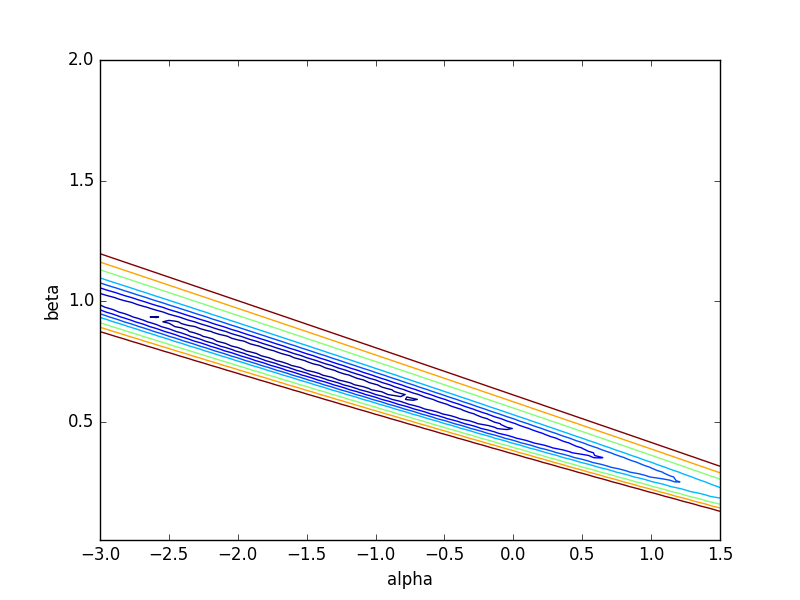
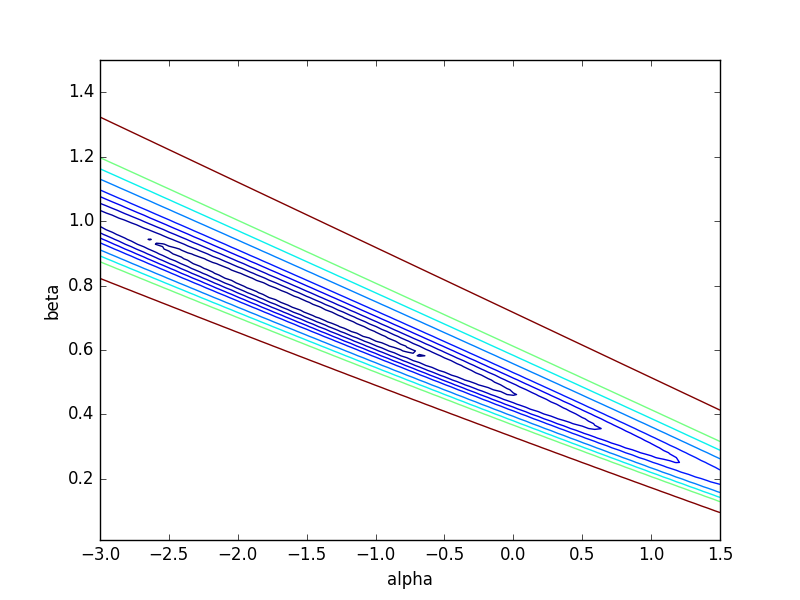
now with multiple dwarfs

diff --git a/GCE_log_parab_tests.py b/GCE_log_parab_tests.py
@@ -35,9 +35,10 @@ k = raw[trunc:dataset,5]
 background = raw[trunc:dataset,7]
 exposure = raw[trunc:dataset,6]
 
+#Eb = np.logspace(-1,0.5,40)
 Eb = np.array([0.2])
 alpha = np.linspace(-3,1.5,100)
-beta = np.linspace(0.01,1.5,100)
+beta = np.linspace(0.01,2,100)
 N0_GCE = 3.*np.logspace(-8,-5,100)
 
 binned_spectra = GCE_calcs.calculations.get_spec_log_parab(N0_GCE,alpha,beta,Eb,emax_GCE,emin_GCE)
@@ -110,28 +111,135 @@ plt.xlabel('Energy [GeV]')
 plt.ylabel('Number Flux [cm^-2 sec^-1]')
 plt.legend(loc='best')
 plt.xscale('log')
+#plt.yscale('log')
 plt.savefig('residual_test.png')
 plt.clf()
 
 
+#########################
+### plotting slices of the 4-d log-like
+#########################
+
+
+levels = [0,1,3,6,10,15,25,36,49]
+plt.contour(alpha,beta,-log_like_GCE_4d[max_index[0],:,:,max_index[3]].T  + log_like_GCE_4d.max(),levels)
+plt.xlabel('alpha')
+plt.ylabel('beta')
+plt.savefig('alpha_beta_slice.png')
+plt.clf()
+
+max_index_alpha_beta = np.unravel_index(log_like_GCE_4d[max_index[0],:,:,max_index[3]].argmax(),log_like_GCE_4d[max_index[0],:,:,max_index[3]].shape)
+
+#print 'the index of the max prob in the alpha_beta slice is ' + str(max_index_alpha_beta)
+
+
+
+#plt.contour(alpha,Eb, -log_like_GCE_4d[max_index[0],:,max_index[2],:].T + log_like_GCE_4d.max(),levels)
+#plt.xlabel('alpha')
+#plt.ylabel('Eb')
+#plt.yscale('log')
+#plt.savefig('alpha_Eb_slice.png')
+#plt.clf()
+
+#max_index_alpha_Eb = np.unravel_index(log_like_GCE_4d[max_index[0],:,max_index[2],:].argmax(),log_like_GCE_4d[max_index[0],:,max_index[2],:].shape)
+
+#print 'the index of the max prob in the alpha_Eb slice is ' + str(max_index_alpha_Eb)
+
+
+
+
+plt.contour(N0_GCE,alpha, -log_like_GCE_4d[:,:,max_index[2],max_index[3]].T + log_like_GCE_4d.max(),levels)
+plt.xlabel('N0')
+plt.xscale('log')
+plt.ylabel('alpha')
+plt.savefig('N0_alpha_slice.png')
+plt.clf()
+
+max_index_N0_alpha = np.unravel_index(log_like_GCE_4d[:,:,max_index[2],max_index[3]].argmax(),log_like_GCE_4d[:,:,max_index[2],max_index[3]].shape)
+
+#print 'the index of the max prob in the N0_alpha slice is ' + str(max_index_N0_alpha)
+
+
+plt.contour(N0_GCE,beta, -log_like_GCE_4d[:,max_index[1],:,max_index[3]].T + log_like_GCE_4d.max(),levels)
+plt.xlabel('N0')
+plt.xscale('log')
+plt.ylabel('beta')
+plt.savefig('N0_beta_slice.png')
+plt.clf()
+
+max_index_N0_beta = np.unravel_index(log_like_GCE_4d[:,max_index[1],:,max_index[3]].argmax(),log_like_GCE_4d[:,max_index[1],:,max_index[3]].shape)
+
+#print 'the index of the max prob in the N0_beta slice is ' + str(max_index_N0_beta)
+
+
+#plt.contour(N0_GCE,Eb, -log_like_GCE_4d[:,max_index[1],max_index[2],:].T + log_like_GCE_4d.max(),levels)
+#plt.xlabel('N0')
+#plt.xscale('log')
+#plt.ylabel('Eb')
+#plt.yscale('log')
+#plt.savefig('N0_Eb_slice.png')
+#plt.clf()
+
+#max_index_N0_Eb = np.unravel_index(log_like_GCE_4d[:,max_index[1],max_index[2],:].argmax(),log_like_GCE_4d[:,max_index[1],max_index[2],:].shape)
+
+#print 'the index of the max prob in the N0_Eb slice is ' + str(max_index_N0_Eb)
+
+
+#plt.contour(beta,Eb, -log_like_GCE_4d[max_index[0],max_index[1],:,:].T + log_like_GCE_4d.max(),levels)
+#plt.xlabel('beta')
+#plt.ylabel('Eb')
+#plt.yscale('log')
+#plt.savefig('beta_Eb_slice.png')
+#plt.clf()
+
+#max_index_beta_Eb = np.unravel_index(log_like_GCE_4d[max_index[0],max_index[1],:,:].argmax(),log_like_GCE_4d[max_index[0],max_index[1],:,:].shape)
+
+#print 'the index of the max prob in the beta_Eb slice is ' + str(max_index_beta_Eb)
+
 
 like_GCE_4d = np.exp(log_like_GCE_4d)
 
+#print 'the number of non-zero elements are' + str(zero_test)
+
 N0_prior_norm = np.trapz(np.ones(n_N0),x = np.log(N0_GCE))
+
+#print 'the norm of the N0 prior is '+ str(N0_prior_norm)
 
 like_GCE_3d = np.trapz(like_GCE_4d, x = np.log(N0_GCE),axis=0) / N0_prior_norm
 
+#print like_GCE_3d
+
+#Eb_prior_norm = np.trapz(np.ones(n_eb),x = np.log(Eb))
+
+#print 'the norm of the E_b prior is '+ str(Eb_prior_norm)
+
+#like_GCE_2d = np.trapz(like_GCE_3d, x = np.log(Eb),axis = 2) / Eb_prior_norm
+
 like_GCE_2d = like_GCE_3d[:,:,0]
 
+zero_test_2d = np.count_nonzero(like_GCE_2d)
+
+#print 'the number of non-zero elements are' + str(zero_test_2d)
+
 alpha_prior_norm = np.trapz(np.ones(n_alpha),x = alpha)
+
+#print 'the norm of the alpha prior is '+ str(alpha_prior_norm)
 
 like_GCE_1d = np.trapz(like_GCE_2d, x = alpha, axis = 0)/alpha_prior_norm
 
 beta_prior_norm = np.trapz(np.ones(n_beta), x = beta)
 
+#print 'the norm of the beta prior is '+ str(beta_prior_norm)
+
 like_GCE = np.trapz(like_GCE_1d, x = beta)/beta_prior_norm
 
 print like_GCE
+
+#print like_GCE_2d
+
+
+
+#posterior_N0 = np.trapz(np.trapz(np.trapz(like_GCE_4d,x = Eb,axis=3),x=beta,axis=2),x=alpha,axis=1)/alpha_prior_norm/beta_prior_norm/Eb_prior_norm
 
 posterior_N0 = np.trapz(np.trapz(like_GCE_4d[:,:,:,0],x = beta, axis = 2),x = alpha, axis = 1)
 
@@ -164,10 +272,7 @@ plt.ylabel('scaled probability')
 plt.savefig('beta_posterior.png')
 plt.clf()
 
-
-levels = [0,1,3,6,10,15,25,36,49,100]
-
-plt.contour(N0_GCE,alpha,-np.log(posterior_N0_alpha.T  / posterior_N0_alpha.max()),levels)
+plt.contour(N0_GCE,alpha,-np.log(posterior_N0_alpha.T  / posterior_N0_alpha.max()))
 plt.xscale('log')
 plt.xlabel('normalization')
 plt.ylabel('alpha')
@@ -176,7 +281,7 @@ plt.clf()
 
 
 #levels = [0,1,3,6,10]
-plt.contour(N0_GCE,beta,-np.log(posterior_N0_beta.T  / posterior_N0_beta.max()),levels)
+plt.contour(N0_GCE,beta,-np.log(posterior_N0_beta.T  / posterior_N0_beta.max()))
 plt.xscale('log')
 plt.xlabel('normalization')
 plt.ylabel('beta')
@@ -204,10 +309,6 @@ plt.clf()
 ###### dwarfs part
 ###################
 
-
-
-
-
 #Eb = np.logspace(-2,2,200)
 #alpha = np.linspace(0,10,100)
 #beta = np.linspace(0,10,100)
@@ -221,7 +322,7 @@ expo_draco = data_draco[:,2]
 
 ecenter_dwarf = np.exp(0.5*(np.log(emax_dwarf)+ np.log(emin_dwarf)))
 
-N0_dwarfs = np.logspace(-7,-6,100)
+N0_dwarfs = np.logspace(-8,-5,100)
 
 binned_spectra_draco = GCE_calcs.calculations.get_spec_log_parab(N0_dwarfs,alpha,beta,Eb,emax_dwarf,emin_dwarf)
 mu_draco = GCE_calcs.calculations.get_mu_log_parab(expo_draco*back_flux_draco,expo_draco,binned_spectra_draco)
@@ -267,11 +368,6 @@ N0_alpha_posterior = np.trapz(like_draco_4d[:,:,:,0],x = beta,axis=2)
 
 N0_beta_posterior = np.trapz(like_draco_4d[:,:,:,0],x = alpha,axis=1)
 
-dwarf_like1 = np.trapz(alpha_draco_posterior,x = alpha)/alpha_prior_norm/beta_prior_norm/N0_draco_normalization
-
-print dwarf_like1
-
-
 plt.plot(N0_dwarfs, N0_draco_posterior/N0_draco_posterior.max())
 plt.xlabel('Normalization')
 plt.xscale('log')
@@ -291,87 +387,24 @@ plt.ylabel('scaled probability')
 plt.savefig('dwarf_beta_posterior.png')
 plt.clf()
 
-plt.contour(N0_dwarfs,alpha,-np.log(N0_alpha_posterior.T  / N0_alpha_posterior.max()),levels)
+plt.contour(N0_dwarfs,alpha,-np.log(N0_alpha_posterior.T  / N0_alpha_posterior.max()))
 plt.xscale('log')
 plt.xlabel('normalization')
 plt.ylabel('alpha')
 plt.savefig('dwarf_N0_alpha_posterior.png')
 plt.clf()
 
-plt.contour(N0_dwarfs,beta,-np.log(N0_beta_posterior.T  / N0_beta_posterior.max()),levels)
+plt.contour(N0_dwarfs,beta,-np.log(N0_beta_posterior.T  / N0_beta_posterior.max()))
 plt.xscale('log')
 plt.xlabel('normalization')
 plt.ylabel('beta')
 plt.savefig('dwarf_N0_beta_posterior.png')
 plt.clf()
 
-plt.contour(alpha,beta,-np.log(alpha_beta_posterior.T  / alpha_beta_posterior.max()),levels)
+plt.contour(alpha,beta,-np.log(alpha_beta_posterior.T  / alpha_beta_posterior.max()))
 plt.xlabel('alpha')
 plt.ylabel('beta')
 plt.savefig('dwarf_alpha_beta_posterior.png')
 plt.clf()
 
-
-
-
-like_name = np.array(['like_bootes_I',
-                        'like_bootes_II',
-                        'like_bootes_III',
-                        'like_canes_venatici_I',
-                        'like_canes_venatici_II',
-                        'like_canis_major',
-                        'like_carina',
-                        'like_coma_berenices',
-                        'like_draco',
-                        'like_fornax',
-                        'like_hercules',
-                        'like_leo_I',
-                        'like_leo_II',
-                        'like_leo_IV',
-                        'like_leo_V',
-                        'like_pisces_II',
-                        'like_sagittarius',
-                        'like_sculptor',
-                        'like_segue_1',
-                        'like_segue_2',
-                        'like_sextans',
-                        'like_ursa_major_I',
-                        'like_ursa_major_II',
-                        'like_ursa_minor',
-                        'like_willman_1'])
-
-log_like_dwarf_2d = np.zeros((n_alpha,n_beta))
-for name in like_name:
-    data_energy_dwarf = np.loadtxt('release-01-00-02/like_draco.txt')
-    emin_dwarf = np.unique(data_energy_dwarf[:,0])/1000.
-    emax_dwarf = np.unique(data_energy_dwarf[:,1])/1000. #delete copies and convert from MeV to GeV
-    data_dwarf = np.loadtxt('dwarf_re_data/like_draco_data.txt')
-    k_dwarf = data_dwarf[:,0]
-    back_flux_dwarf = data_dwarf[:,1]
-    expo_dwarf = data_dwarf[:,2]
-    N0_dwarf = np.logspace(-8,-5,100)
-    N0_dwarf_normalization = np.trapz(np.ones(len(N0_dwarf)),x = np.log(N0_dwarf))
-    binned_spectra_dwarf = GCE_calcs.calculations.get_spec_log_parab(N0_dwarf,alpha,beta,Eb,emax_dwarf,emin_dwarf)
-    mu_dwarf = GCE_calcs.calculations.get_mu_log_parab(expo_dwarf*back_flux_dwarf,expo_dwarf,binned_spectra_dwarf)
-    log_like_dwarf_5d = GCE_calcs.analysis.poisson_log_like(k_dwarf,mu_dwarf)
-    log_like_dwarf_4d = np.sum(log_like_dwarf_5d,axis=4)
-    log_like_dwarf_2d += np.trapz(log_like_draco_4d[:,:,:,0],x=np.log(N0_dwarf),axis=0)/N0_dwarf_normalization
-
-####################
-####### C-C-C-COMBO
-####################
-
-combo_like_2d = like_GCE_2d*alpha_beta_posterior / N0_draco_normalization
-
-plt.contour(alpha,beta,-np.log(combo_like_2d.T  / combo_like_2d.max()),levels)
-plt.xlabel('alpha')
-plt.ylabel('beta')
-plt.savefig('combo_alpha_beta_posterior.png')
-plt.clf()
-
-combo_like = np.trapz(np.trapz(combo_like_2d,x = alpha, axis = 0),x=beta,axis=0) / alpha_prior_norm / beta_prior_norm
-
-
-
-print combo_like
 
